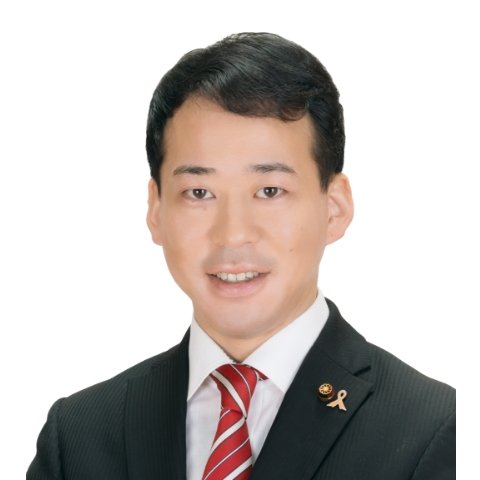
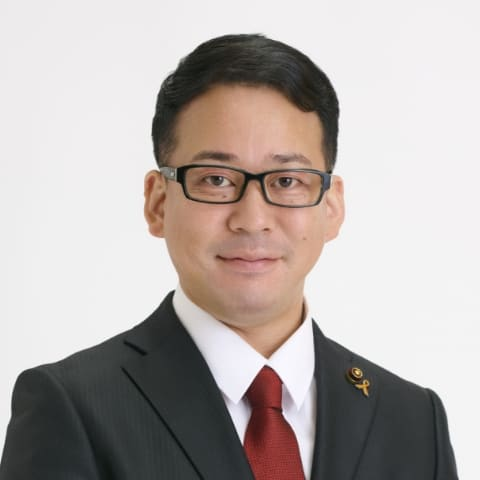
コミット忘れ？

Changed region(s): [[0.0, 0.0625, 0.9688, 1.0], [0.125, 0.9375, 0.1562, 1.0], [0.8438, 0.9688, 0.875, 1.0]]

diff --git a/src/sass/_base.scss b/src/sass/_base.scss
@@ -146,7 +146,20 @@ a {
 	&__logo {
 		position: relative;
 		z-index: 100;
-		line-height: 1;
+		flex-shrink: 0;
+		font-size: 2.4rem;
+		font-weight: 500;
+		line-height: 1.334;
+
+		a {
+			display: block;
+			color: v.$color_main;
+		}
+
+		span {
+			display: block;
+			font-size: 1.2rem;
+		}
 	}
 
 	@media (max-width: v.$point-sp) {
@@ -197,10 +210,21 @@ a {
 			opacity: 0;
 		}
 		&::before {
-			transform: translate(-50%, 10px) rotate(-45deg);
+			// transform: translate(-50%, 4px) rotate(-15deg);
+			transform: translate(-50%, 4px);
 		}
 		&::after {
-			transform: translate(-50%, -10px) rotate(45deg);
+			// transform: translate(-50%, -4px) rotate(15deg);
+			transform: translate(-50%, -4px);
+		}
+
+		span {
+			&:first-child {
+				display: none;
+			}
+			&:last-child {
+				display: inline;
+			}
 		}
 	}
 
